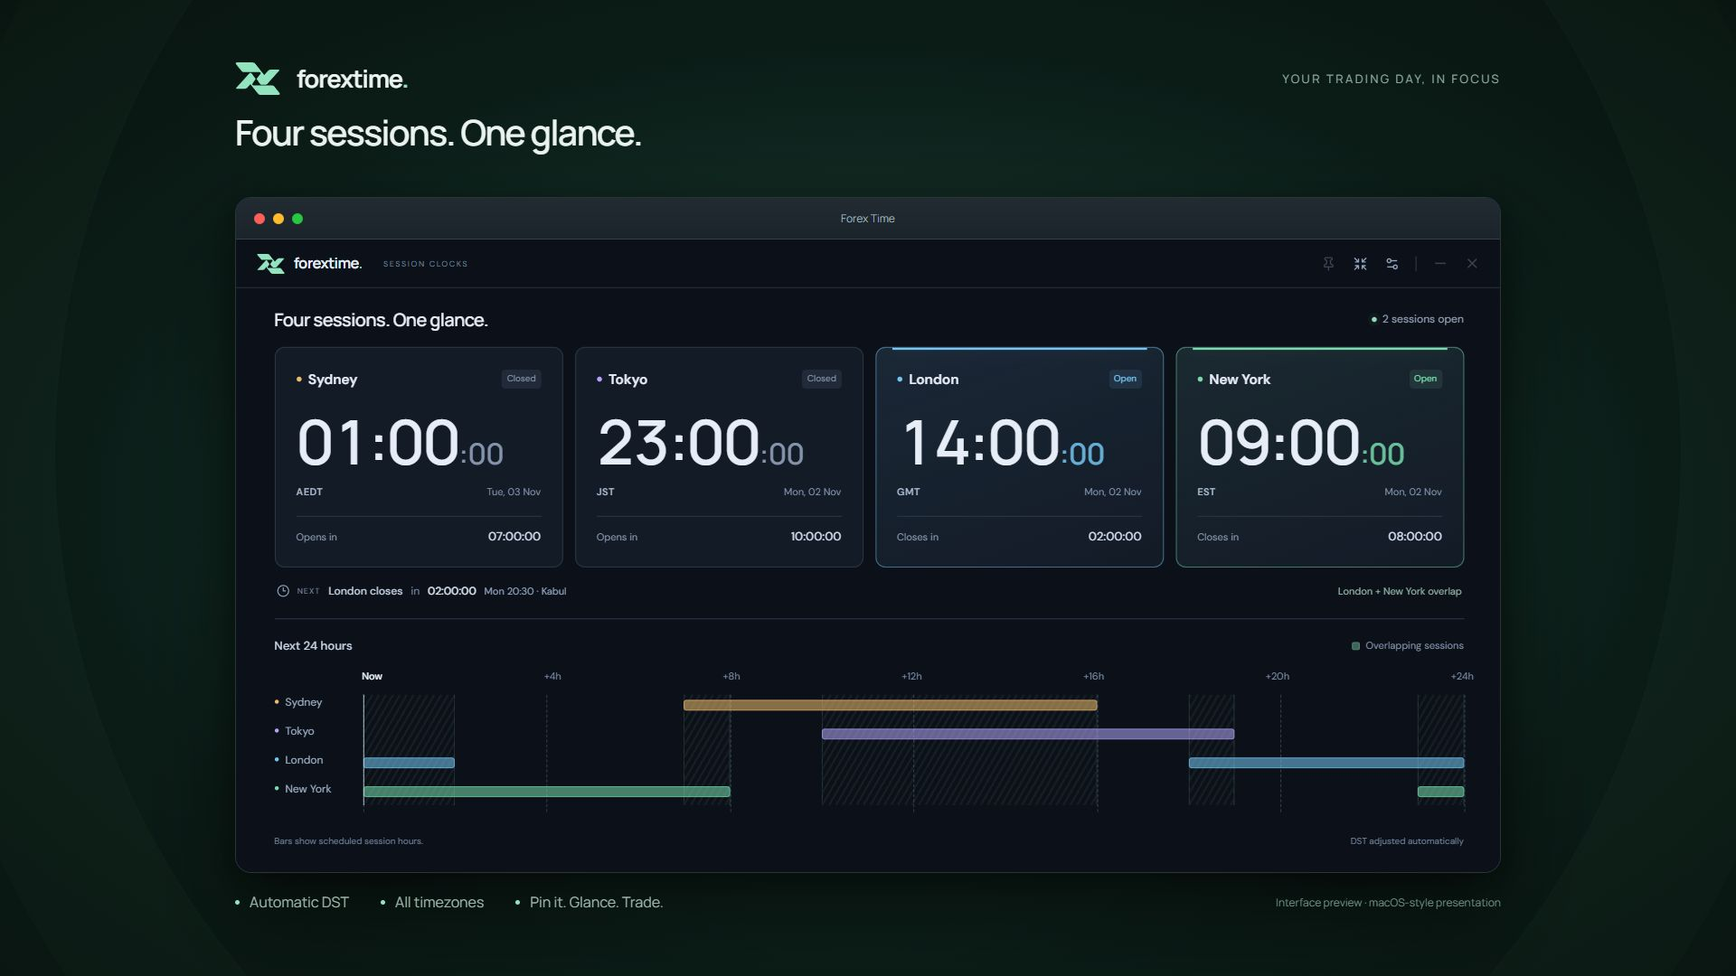
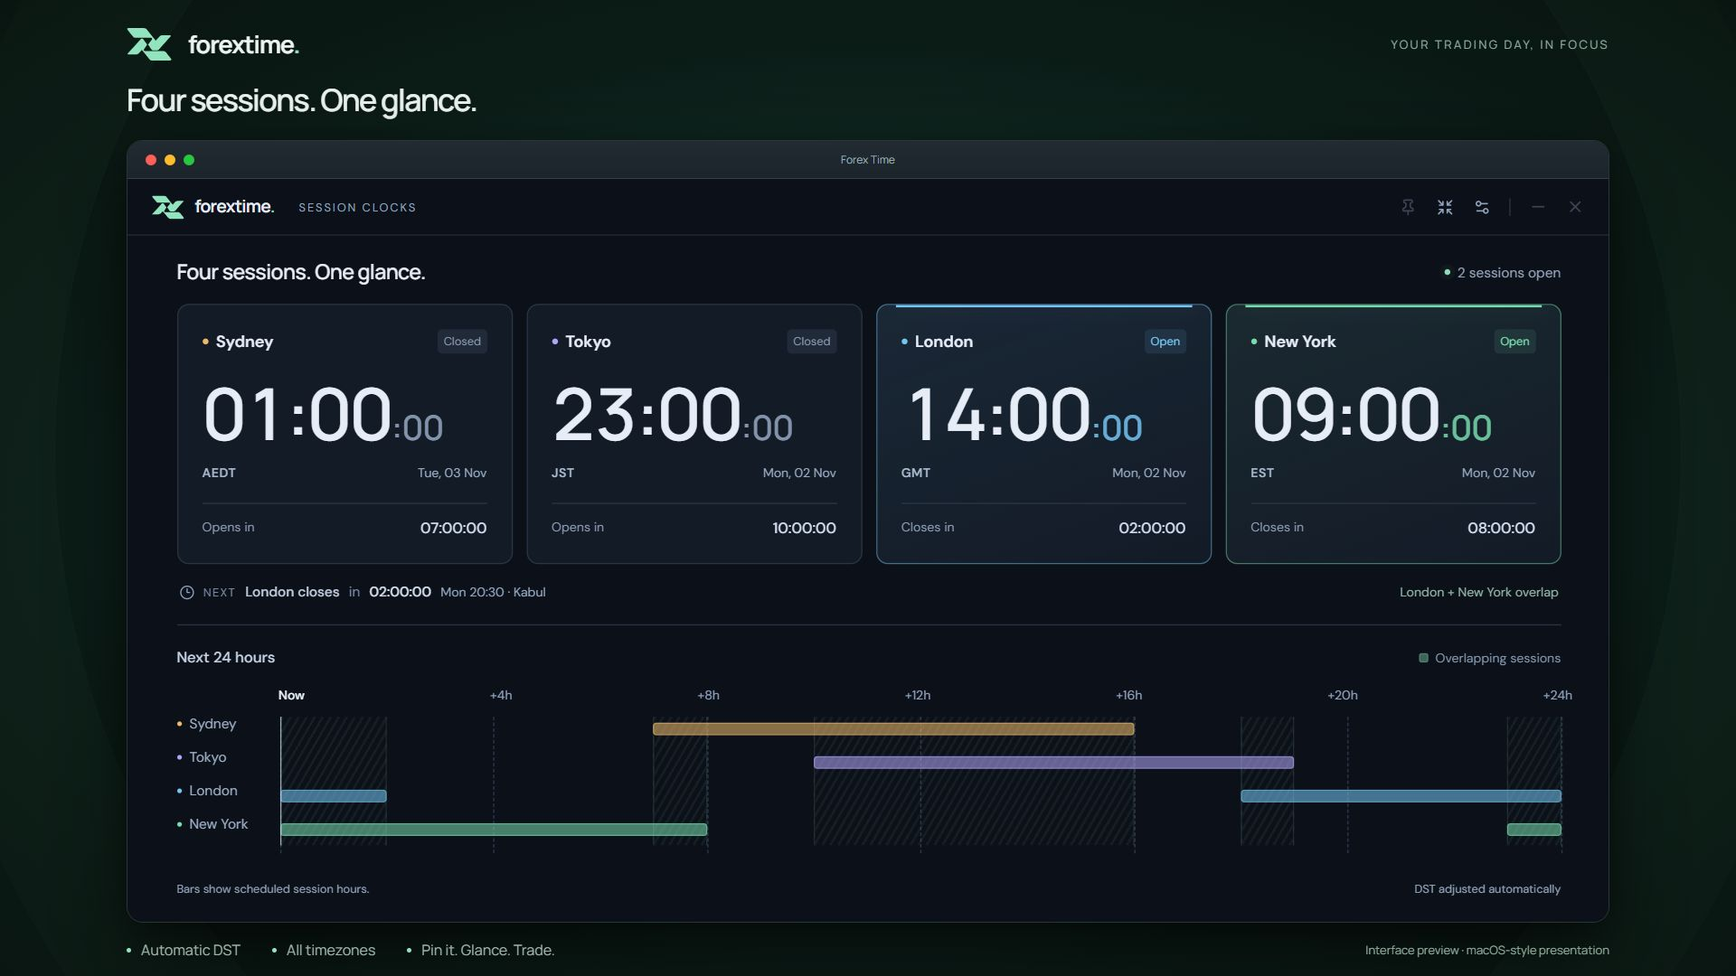
style: improve small-text readability and enlarge README preview

diff --git a/src/styles.css b/src/styles.css
@@ -20,17 +20,17 @@ button:focus-visible, select:focus-visible, summary:focus-visible { outline: 2px
 .brand-icon img { display: block; width: 28px; height: 21px; pointer-events: none; }
 .brand-name { font-family: var(--font-display); font-weight: 650; font-size: 15px; letter-spacing: -.5px; }
 .brand-name span { color: #7edbb3; }
-.brand-caption { font-size: 8px; color: #71849d; letter-spacing: 1.5px; margin-left: 12px; }
+.brand-caption { font-size: 10px; color: #91a4bf; letter-spacing: 1.5px; margin-left: 12px; }
 .window-actions { display: flex; align-items: center; gap: 3px; }
 .icon-button { display: inline-flex; justify-content: center; align-items: center; width: 29px; height: 29px; color: #91a4bf; background: transparent; border-radius: 6px; border: 1px solid transparent; }
 .icon-button:hover:not(:disabled) { background: #273447; color: #edf5ff; }
 .icon-button.is-active { background: #203c31; border-color: #39604e; color: #9decc8; }
 .window-divider { width: 1px; height: 15px; background: #2b3646; margin: 0 6px; }
-.tooltip { z-index: 100; padding: 7px 10px; border-radius: 6px; background: #293343; color: #eef3fa; font-size: 11px; box-shadow: 0 4px 15px #0005; }
+.tooltip { z-index: 100; padding: 7px 10px; border-radius: 6px; background: #293343; color: #eef3fa; font-size: 12px; box-shadow: 0 4px 15px #0005; }
 .dashboard { padding: 18px 22px 14px; width: 100%; max-width: 1240px; margin: 0 auto; }
 .overview { display: flex; justify-content: space-between; align-items: center; gap: 12px; margin-bottom: 14px; }
 .overview h1 { font-family: var(--font-display); font-size: 18px; font-weight: 550; letter-spacing: -.4px; }
-.live-summary { display: flex; align-items: center; gap: 6px; font-size: 11px; color: #93a3b9; white-space: nowrap; }
+.live-summary { display: flex; align-items: center; gap: 6px; font-size: 12px; color: #93a3b9; white-space: nowrap; }
 .live-summary i { width: 5px; height: 5px; border-radius: 50%; background: #728197; }
 .live-summary.has-active i { background: #8ddcba; box-shadow: 0 0 0 4px #7bdcb00a; }
 .clock-grid { display: grid; grid-template-columns: repeat(4,minmax(0,1fr)); gap: 12px; }
@@ -44,38 +44,38 @@ button:focus-visible, select:focus-visible, summary:focus-visible { outline: 2px
 .tile-heading { display: flex; justify-content: space-between; align-items: center; gap: 6px; }
 .tile-heading h2 { display: flex; align-items: center; gap: 7px; font-size: 14px; font-weight: 600; white-space: nowrap; }
 .tile-heading i { width: 5px; height: 5px; background: var(--city); border-radius: 50%; flex-shrink: 0; }
-.session-state { font-size: 9px; padding: 3px 5px; border-radius: 4px; color: #8b9ab0; background: #202a39; }
+.session-state { font-size: 10px; padding: 3px 5px; border-radius: 4px; color: #8b9ab0; background: #202a39; }
 .session-state.open { color: var(--city); background: rgba(var(--rgb),.1); }
 .session-clock { font-family: var(--font-display); display: flex; align-items: baseline; white-space: nowrap; font-variant-numeric: tabular-nums; font-size: clamp(35px,4.7vw,52px); font-weight: 550; letter-spacing: -2px; margin: 21px 0 7px; line-height: 1; position: relative; }
 .seconds { font-size: .48em; letter-spacing: -.5px; color: #8293ab; }
 .is-open .seconds { color: var(--city); opacity: .85; }
-.period { position: absolute; right: 0; bottom: -17px; font: 9px var(--font-sans); letter-spacing: .5px; color: #b0c0d5; background: #192333; padding-left: 3px; }
-.session-date { display: flex; align-items: center; gap: 6px; justify-content: space-between; color: #8194ae; font-size: 10px; margin: 12px 0 17px; }
-.session-date > span:first-child { font-size: 10px; font-weight: 600; letter-spacing: .4px; color: #a8b9ce; }
+.period { position: absolute; right: 0; bottom: -17px; font: 10px var(--font-sans); letter-spacing: .5px; color: #b0c0d5; background: #192333; padding-left: 3px; }
+.session-date { display: flex; align-items: center; gap: 6px; justify-content: space-between; color: #98aac3; font-size: 11px; margin: 12px 0 17px; }
+.session-date > span:first-child { font-size: 11px; font-weight: 600; letter-spacing: .4px; color: #a8b9ce; }
 .session-clock:has(.period) + .session-date > span:last-child { margin-right: 21px; }
-.session-change { display: flex; align-items: center; justify-content: space-between; gap: 4px; border-top: 1px solid #2a3545; padding-top: 11px; color: #8d9db4; font-size: 10px; }
-.session-change strong { color: #d1dded; font-size: 12px; font-weight: 500; font-variant-numeric: tabular-nums; }
-.next-event { display: flex; justify-content: space-between; align-items: center; gap: 12px; padding: 15px 2px 19px; font-size: 11px; }
+.session-change { display: flex; align-items: center; justify-content: space-between; gap: 4px; border-top: 1px solid #2a3545; padding-top: 11px; color: #8d9db4; font-size: 11px; }
+.session-change strong { color: #d1dded; font-size: 13px; font-weight: 500; font-variant-numeric: tabular-nums; }
+.next-event { display: flex; justify-content: space-between; align-items: center; gap: 12px; padding: 15px 2px 19px; font-size: 12px; }
 .next-event > span:first-child { display: flex; align-items: center; gap: 8px; }
 .next-event > span:first-child { flex-wrap: wrap; }
-.event-home-time { font-size: 10px; color: #91a6c2; }
+.event-home-time { font-size: 11px; color: #91a6c2; }
 .next-event svg { color: #8b9eb9; }
-.next-caption { color: #798aa3; font-size: 8px; letter-spacing: 1px; }
+.next-caption { color: #798aa3; font-size: 10px; letter-spacing: 1px; }
 .next-event strong { font-weight: 500; color: #c0ccde; }
 .next-in { color: #788ba6; }
 .next-event b { font-weight: 500; color: #d6e0ee; font-variant-numeric: tabular-nums; }
-.current-overlap { color: #91b7aa; font-size: 10px; }
+.current-overlap { color: #91b7aa; font-size: 11px; }
 .timeline { border-top: 1px solid #283344; padding-top: 18px; }
 .timeline-heading { display: flex; align-items: center; justify-content: space-between; margin-bottom: 14px; }
-.timeline-heading h2 { font-size: 12px; font-weight: 500; color: #c5d2e4; }
-.overlap-key { display: flex; gap: 6px; align-items: center; font-size: 10px; color: #8498b1; }
+.timeline-heading h2 { font-size: 13px; font-weight: 500; color: #c5d2e4; }
+.overlap-key { display: flex; gap: 6px; align-items: center; font-size: 11px; color: #8498b1; }
 .overlap-key i { width: 8px; height: 8px; background: #3d6659; border: 1px solid #557d6f; border-radius: 2px; }
 .timeline-chart { display: flex; }
 .timeline-names { padding-top: 24px; width: 89px; flex-shrink: 0; display: flex; flex-direction: column; gap: 10px; }
-.timeline-names > span { height: 19px; display: flex; align-items: center; gap: 7px; font-size: 11px; color: #9eafc7; }
+.timeline-names > span { height: 19px; display: flex; align-items: center; gap: 7px; font-size: 12px; color: #9eafc7; }
 .timeline-names i { height: 4px; width: 4px; background: var(--city); border-radius: 50%; }
 .timeline-tracks { flex: 1; min-width: 0; }
-.timeline-axis { display: flex; justify-content: space-between; color: #7b8ea9; font-size: 10px; margin: 0 -10px 11px -1px; }
+.timeline-axis { display: flex; justify-content: space-between; color: #91a4bf; font-size: 11px; margin: 0 -10px 11px -1px; }
 .timeline-axis > span:first-child { color: #edf6ff; font-weight: 500; }
 .chart-body { position: relative; padding: 1px 0; }
 .chart-grid { position: absolute; inset: 0; pointer-events: none; }
@@ -85,33 +85,33 @@ button:focus-visible, select:focus-visible, summary:focus-visible { outline: 2px
 .timeline-bar { position: absolute; height: 11px; top: 4px; background: rgba(var(--rgb),.55); border: 1px solid rgba(var(--rgb),.5); border-radius: 3px; }
 .overlap-shading { position: absolute; top: 0; bottom: 7px; background: repeating-linear-gradient(120deg,#9df0c910 0,#9df0c910 2px,transparent 2px,transparent 6px); border-left: 1px solid #91d9ba20; border-right: 1px solid #91d9ba20; pointer-events: none; }
 .now-marker { position: absolute; top: 0; bottom: 7px; width: 1px; left: 0; background: #d6e6f3; opacity: .65; }
-.no-session { color: #70819a; font-size: 10px; padding-left: 9px; }
-.timeline-footnote { display: flex; justify-content: space-between; margin-top: 13px; padding-top: 10px; color: #6e819d; font-size: 9px; }
-.preview-banner { padding: 5px 22px; background: #1d2a3a; color: #9aadc6; font-size: 9px; }
-.error-banner { display: flex; align-items: center; justify-content: space-between; padding: 10px 20px; color: #ffca99; background: #36291c; font-size: 12px; gap: 10px; }
+.no-session { color: #70819a; font-size: 11px; padding-left: 9px; }
+.timeline-footnote { display: flex; justify-content: space-between; margin-top: 13px; padding-top: 10px; color: #91a2ba; font-size: 10px; }
+.preview-banner { padding: 5px 22px; background: #1d2a3a; color: #9aadc6; font-size: 10px; }
+.error-banner { display: flex; align-items: center; justify-content: space-between; padding: 10px 20px; color: #ffca99; background: #36291c; font-size: 13px; gap: 10px; }
 .connection-state { padding: 50px 20px; flex: 1; display: flex; flex-direction: column; align-items: center; justify-content: center; gap: 15px; text-align: center; color: #a1b4cc; }
-.connection-state p { font-size: 12px; }
+.connection-state p { font-size: 13px; }
 .dialog-overlay { position: fixed; inset: 0; background: #04080ecc; backdrop-filter: blur(4px); z-index: 30; }
 .settings-dialog { position: fixed; top: 50%; left: 50%; transform: translate(-50%,-50%); max-height: calc(100dvh - 24px); overflow-y: auto; z-index: 31; width: min(420px,calc(100vw - 24px)); background: #151e2b; border: 1px solid #354254; border-radius: 12px; padding: 22px; box-shadow: 0 24px 100px #0009; }
 .dialog-heading { display: flex; justify-content: space-between; align-items: center; }
 .dialog-heading h2 { font-family: var(--font-display); font-size: 20px; font-weight: 600; letter-spacing: -.5px; }
-.dialog-description { font-size: 12px; color: #8e9fb7; margin: 6px 0 16px; }
+.dialog-description { font-size: 13px; color: #8e9fb7; margin: 6px 0 16px; }
 .setting-row { display: flex; align-items: center; justify-content: space-between; padding: 12px 0; gap: 20px; cursor: pointer; }
-.setting-label { display: block; color: #d5dfed; font-size: 12px; }
-.setting-description { display: block; color: #8c9eb7; font-size: 10px; margin-top: 4px; }
+.setting-label { display: block; color: #d5dfed; font-size: 13px; }
+.setting-description { display: block; color: #8c9eb7; font-size: 11px; margin-top: 4px; }
 .switch { width: 32px; height: 18px; border-radius: 10px; background: #34445a; border: 1px solid #45566a; flex-shrink: 0; position: relative; }
 .switch[data-state="checked"] { background: #51bd93; border-color: #71dcad; }
 .switch-thumb { display: block; height: 12px; width: 12px; background: #d7e2ef; border-radius: 50%; transform: translateX(2px); transition: transform .15s; }
 .switch-thumb[data-state="checked"] { transform: translateX(16px); background: #10271d; }
-.placement-heading { display: flex; justify-content: space-between; margin: 17px 0 9px; color: #9aadc5; font-size: 10px; }
+.placement-heading { display: flex; justify-content: space-between; margin: 17px 0 9px; color: #9aadc5; font-size: 11px; }
 .placement-heading > span:last-child { display: flex; align-items: center; gap: 4px; }
 .placement-buttons { display: flex; gap: 6px; margin-bottom: 16px; }
-.placement-buttons button { display: flex; flex: 1; flex-direction: column; gap: 6px; align-items: center; justify-content: center; padding: 11px 0; border: 1px solid #344154; border-radius: 7px; color: #a2b6d0; background: #1b2738; font-size: 8px; }
+.placement-buttons button { display: flex; flex: 1; flex-direction: column; gap: 6px; align-items: center; justify-content: center; padding: 11px 0; border: 1px solid #344154; border-radius: 7px; color: #a2b6d0; background: #1b2738; font-size: 10px; }
 .placement-buttons button:hover:not(:disabled) { background: #26394b; color: #a7f0d0; }
-.primary-button { background: #92e4bf; color: #0e2b1e; width: 100%; padding: 10px 14px; border-radius: 7px; font-weight: 600; font-size: 12px; display: flex; align-items: center; justify-content: center; gap: 8px; }
+.primary-button { background: #92e4bf; color: #0e2b1e; width: 100%; padding: 10px 14px; border-radius: 7px; font-weight: 600; font-size: 13px; display: flex; align-items: center; justify-content: center; gap: 8px; }
 .primary-button:hover { background: #b4f3d7; }
-.settings-preview { font-size: 10px; color: #a4bad4; padding: 10px; border-radius: 6px; background: #1d2b3f; margin: 0 0 12px; }
-.schedule-info { margin: 12px 0 20px; color: #8ea1ba; font-size: 10px; border-top: 1px solid #2d3b50; padding-top: 12px; }
+.settings-preview { font-size: 11px; color: #a4bad4; padding: 10px; border-radius: 6px; background: #1d2b3f; margin: 0 0 12px; }
+.schedule-info { margin: 12px 0 20px; color: #8ea1ba; font-size: 11px; border-top: 1px solid #2d3b50; padding-top: 12px; }
 .schedule-info summary { cursor: pointer; color: #b0bfd3; }
 .schedule-info p { margin: 10px 0; line-height: 1.6; }
 .schedule-info li { display: flex; justify-content: space-between; padding: 3px 0; }
@@ -120,36 +120,36 @@ button:focus-visible, select:focus-visible, summary:focus-visible { outline: 2px
 .compact .brand-caption { display: none; }
 .compact-clock-grid { display: grid; grid-template-columns: repeat(2,minmax(0,1fr)); gap: 10px; }
 .compact-slot { min-width: 0; display: flex; flex-direction: column; }
-.compact-label { color: #96a9c3; font-size: 9px; font-weight: 600; letter-spacing: 1.1px; text-transform: uppercase; margin-bottom: 8px; padding-left: 2px; }
+.compact-label { color: #96a9c3; font-size: 10px; font-weight: 600; letter-spacing: 1.1px; text-transform: uppercase; margin-bottom: 8px; padding-left: 2px; }
 .compact-slot .session-tile { flex: 1; }
-.compact-footer { display: flex; align-items: center; gap: 10px; padding: 10px 2px 0; font-size: 9px; }
+.compact-footer { display: flex; align-items: center; gap: 10px; padding: 10px 2px 0; font-size: 10px; }
 .home-reference { color: #9aafcc; min-width: 0; flex: 1; overflow: hidden; text-overflow: ellipsis; white-space: nowrap; }
-.compact-overlap { display: flex; gap: 6px; align-items: center; font-size: 9px; color: #9ec7b5; white-space: nowrap; }
+.compact-overlap { display: flex; gap: 6px; align-items: center; font-size: 10px; color: #9ec7b5; white-space: nowrap; }
 .compact-overlap i { width: 5px; height: 5px; border-radius: 50%; background: #77dbad; }
 .no-current { display: flex; flex-direction: column; justify-content: center; gap: 10px; color: #8293ab; }
 .no-current h3 { color: #c4d1e3; font-size: 13px; font-weight: 500; }
-.no-current p { font-size: 10px; max-width: 120px; }
+.no-current p { font-size: 11px; max-width: 120px; }
 .timezone-setting { margin: 17px 0 8px; padding-bottom: 17px; border-bottom: 1px solid #2d3b50; }
 .timezone-trigger { display: flex; width: 100%; align-items: center; gap: 10px; text-align: left; color: #a8c8e4; background: #1b293b; border: 1px solid #394b65; border-radius: 7px; padding: 10px 12px; margin-top: 11px; }
 .timezone-trigger > span { flex: 1; min-width: 0; }
-.timezone-trigger strong { display: block; color: #e1eaf6; font-size: 12px; font-weight: 500; }
-.timezone-trigger small { display: block; font-size: 10px; color: #8fa4c1; margin-top: 3px; overflow-wrap: anywhere; }
+.timezone-trigger strong { display: block; color: #e1eaf6; font-size: 13px; font-weight: 500; }
+.timezone-trigger small { display: block; font-size: 11px; color: #8fa4c1; margin-top: 3px; overflow-wrap: anywhere; }
 .timezone-trigger:hover { background: #23344a; }
 .timezone-options { margin-top: 10px; }
 .timezone-search { display: flex; align-items: center; gap: 8px; color: #8da6c5; padding: 9px; background: #0e1724; border: 1px solid #3b506c; border-radius: 6px; }
-.timezone-search input { width: 100%; min-width: 0; font: inherit; font-size: 12px; color: #e1eaf6; background: transparent; outline: none; }
+.timezone-search input { width: 100%; min-width: 0; font: inherit; font-size: 13px; color: #e1eaf6; background: transparent; outline: none; }
 .timezone-search:focus-within { border-color: #92e4bf; }
-.timezone-options select { width: 100%; margin-top: 7px; border: 1px solid #334862; border-radius: 5px; background: #0e1724; color: #bbcee6; font-size: 11px; }
+.timezone-options select { width: 100%; margin-top: 7px; border: 1px solid #334862; border-radius: 5px; background: #0e1724; color: #bbcee6; font-size: 12px; }
 .timezone-options option { padding: 8px 9px; }
-.timezone-count,.timezone-empty { font-size: 10px; color: #8ba0bb; margin-top: 8px; }
-.timezone-error { font-size: 11px; color: #ffbd9d; margin-top: 9px; }
+.timezone-count,.timezone-empty { font-size: 11px; color: #8ba0bb; margin-top: 8px; }
+.timezone-error { font-size: 12px; color: #ffbd9d; margin-top: 9px; }
 .compact .session-tile { padding: 13px 12px 11px; }
 .compact .session-clock { margin-top: 16px; font-size: 38px; }
-.compact .tile-heading h2 { font-size: 12px; gap: 5px; }
-.compact .session-date { margin-bottom: 11px; font-size: 9px; }
-.compact .session-change { font-size: 9px; }
-.compact .session-change strong { font-size: 11px; }
+.compact .tile-heading h2 { font-size: 13px; gap: 5px; }
+.compact .session-date { margin-bottom: 11px; font-size: 10px; }
+.compact .session-change { font-size: 10px; }
+.compact .session-change strong { font-size: 12px; }
 @media(min-width:1100px) { .session-clock { font-size: 62px; } .session-tile { padding: 21px; } }
-@media(max-width:760px) { .clock-grid { grid-template-columns: repeat(2,minmax(0,1fr)); } .session-clock { font-size: 51px; } .dashboard { padding: 19px; } .brand-caption { display: none; } .overview h1 { font-size: 16px; } .current-overlap { display: none; } .compact .session-clock { font-size: 38px; } .compact .session-date { font-size: 9px; } }
-@media(max-width:440px) { .titlebar { padding: 0 10px; } .brand-drag { gap: 6px; } .brand-name { font-size: 14px; } .window-actions { gap: 0; } .window-divider { margin: 0 3px; } .icon-button { width: 27px; } .dashboard { padding: 16px 12px; } .overview h1 { font-size: 14px; } .live-summary { font-size: 9px; } .clock-grid { gap: 9px; } .session-tile { padding: 14px 12px 11px; } .tile-heading h2 { font-size: 12px; gap: 5px; } .session-state { font-size: 8px; padding: 3px 4px; } .session-clock { font-size: 39px; } .session-date { font-size: 8px; } .session-date > span:first-child { font-size: 9px; } .session-change { font-size: 9px; } .session-change strong { font-size: 11px; } .next-event { font-size: 10px; } .timeline-names { width: 62px; } .timeline-names > span { font-size: 9px; gap: 4px; } .timeline-axis { font-size: 8px; margin-right: -4px; } .overlap-key { font-size: 8px; } .timeline-footnote { font-size: 8px; } .compact .dashboard { padding: 12px; } }
+@media(max-width:760px) { .clock-grid { grid-template-columns: repeat(2,minmax(0,1fr)); } .session-clock { font-size: 51px; } .dashboard { padding: 19px; } .brand-caption { display: none; } .overview h1 { font-size: 16px; } .current-overlap { display: none; } .compact .session-clock { font-size: 38px; } .compact .session-date { font-size: 10px; } }
+@media(max-width:440px) { .titlebar { padding: 0 10px; } .brand-drag { gap: 6px; } .brand-name { font-size: 14px; } .window-actions { gap: 0; } .window-divider { margin: 0 3px; } .icon-button { width: 27px; } .dashboard { padding: 16px 12px; } .overview h1 { font-size: 14px; } .live-summary { font-size: 10px; } .clock-grid { gap: 9px; } .session-tile { padding: 14px 12px 11px; } .tile-heading h2 { font-size: 13px; gap: 5px; } .session-state { font-size: 10px; padding: 3px 4px; } .session-clock { font-size: 39px; } .session-date { font-size: 10px; } .session-date > span:first-child { font-size: 10px; } .session-change { font-size: 10px; } .session-change strong { font-size: 12px; } .next-event { font-size: 11px; } .timeline-names { width: 62px; } .timeline-names > span { font-size: 10px; gap: 4px; } .timeline-axis { font-size: 10px; margin-right: -4px; } .overlap-key { font-size: 10px; } .timeline-footnote { font-size: 10px; } .compact .dashboard { padding: 12px; } }
 @media(prefers-reduced-motion:reduce) { *,*::before,*::after { transition:none!important; animation:none!important; } }

diff --git a/docs/preview.html b/docs/preview.html
@@ -13,23 +13,23 @@
     body { position: fixed; inset: 0; font-family: Manrope, sans-serif; color: #ecf4f1; background: #08130f; }
     .canvas { position: relative; height: 1080px; overflow: clip; background: radial-gradient(ellipse at 50% 52%, #234c3d 0, #122c24 38%, #0b1c17 65%, #08130f 100%); }
     .orbit { position: absolute; width: 1800px; height: 1800px; border: 1px solid #94e1bc09; border-radius: 50%; left: 60px; top: -400px; box-shadow: 0 0 0 160px #94e1bc03, 0 0 0 320px #94e1bc02; }
-    .intro { position: absolute; top: 68px; left: 260px; right: 260px; display: flex; align-items: center; justify-content: space-between; }
+    .intro { position: absolute; top: 30px; left: 140px; right: 140px; display: flex; align-items: center; justify-content: space-between; }
     .identity { display: flex; align-items: center; gap: 18px; font-size: 27px; letter-spacing: -1px; font-weight: 650; }
     .identity img { width: 50px; }
     .identity span { color: #92e4bf; }
     .eyebrow { font-size: 13px; color: #8dac9e; letter-spacing: 2.5px; text-transform: uppercase; }
-    h1 { position: absolute; left: 260px; top: 119px; margin: 0; font-size: 39px; letter-spacing: -1.5px; font-weight: 550; }
-    .window { position: absolute; left: 260px; top: 218px; width: 1400px; border-radius: 18px; overflow: hidden; border: 1px solid #a6cdbb30; box-shadow: 0 48px 100px #0008, 0 10px 30px #0005; background: #0c1119; }
-    .chrome { height: 46px; background: linear-gradient(#212b31, #1a242a); border-bottom: 1px solid #35414a; display: flex; align-items: center; padding: 0 20px; gap: 9px; position: relative; }
+    h1 { position: absolute; left: 140px; top: 87px; margin: 0; font-size: 34px; letter-spacing: -1.5px; font-weight: 550; }
+    .window { position: absolute; left: 140px; top: 155px; width: 1640px; border-radius: 18px; overflow: hidden; border: 1px solid #a6cdbb30; box-shadow: 0 48px 100px #0008, 0 10px 30px #0005; background: #0c1119; }
+    .chrome { height: 42px; background: linear-gradient(#212b31, #1a242a); border-bottom: 1px solid #35414a; display: flex; align-items: center; padding: 0 20px; gap: 9px; position: relative; }
     .dot { width: 12px; height: 12px; border-radius: 50%; background: #ff6059; box-shadow: inset 0 0 0 1px #0001; }
     .dot:nth-child(2) { background: #ffbd2e; } .dot:nth-child(3) { background: #28c840; }
     .window-title { position: absolute; left: 0; right: 0; text-align: center; font-size: 12px; color: #9eaeb9; }
-    .viewport { width: 1400px; height: 700px; overflow: hidden; }
-    iframe { width: 1273px; height: 636px; border: 0; display: block; transform: scale(1.1); transform-origin: 0 0; }
-    .foot { position: absolute; top: 987px; left: 260px; right: 260px; display: flex; justify-content: space-between; align-items: center; color: #9eb7ab; font-size: 16px; }
+    .viewport { width: 1640px; height: 822px; overflow: hidden; }
+    iframe { width: 1281.25px; height: 642px; border: 0; display: block; transform: scale(1.28); transform-origin: 0 0; }
+    .foot { position: absolute; top: 1040px; left: 140px; right: 140px; display: flex; justify-content: space-between; align-items: center; color: #9eb7ab; font-size: 16px; }
     .features { display: flex; gap: 35px; }
     .features span::before { content: ''; display: inline-block; width: 5px; height: 5px; border-radius: 50%; background: #92e4bf; margin: 0 11px 3px 0; }
-    .caption { font-size: 12px; color: #6e8f80; }
+    .caption { font-size: 13px; color: #8eac9d; }
   </style>
 </head>
 <body>
